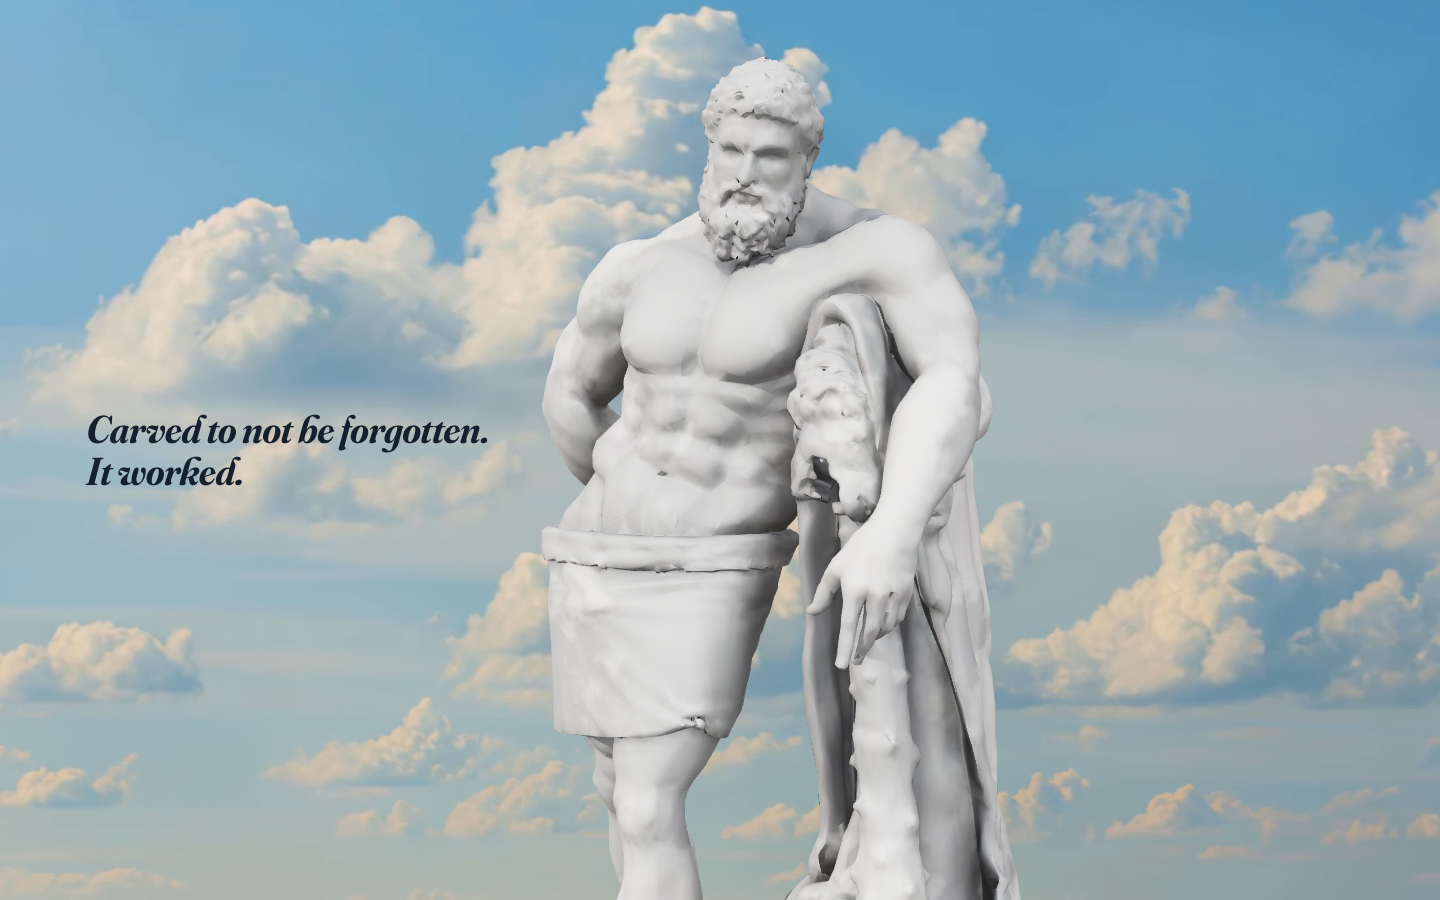
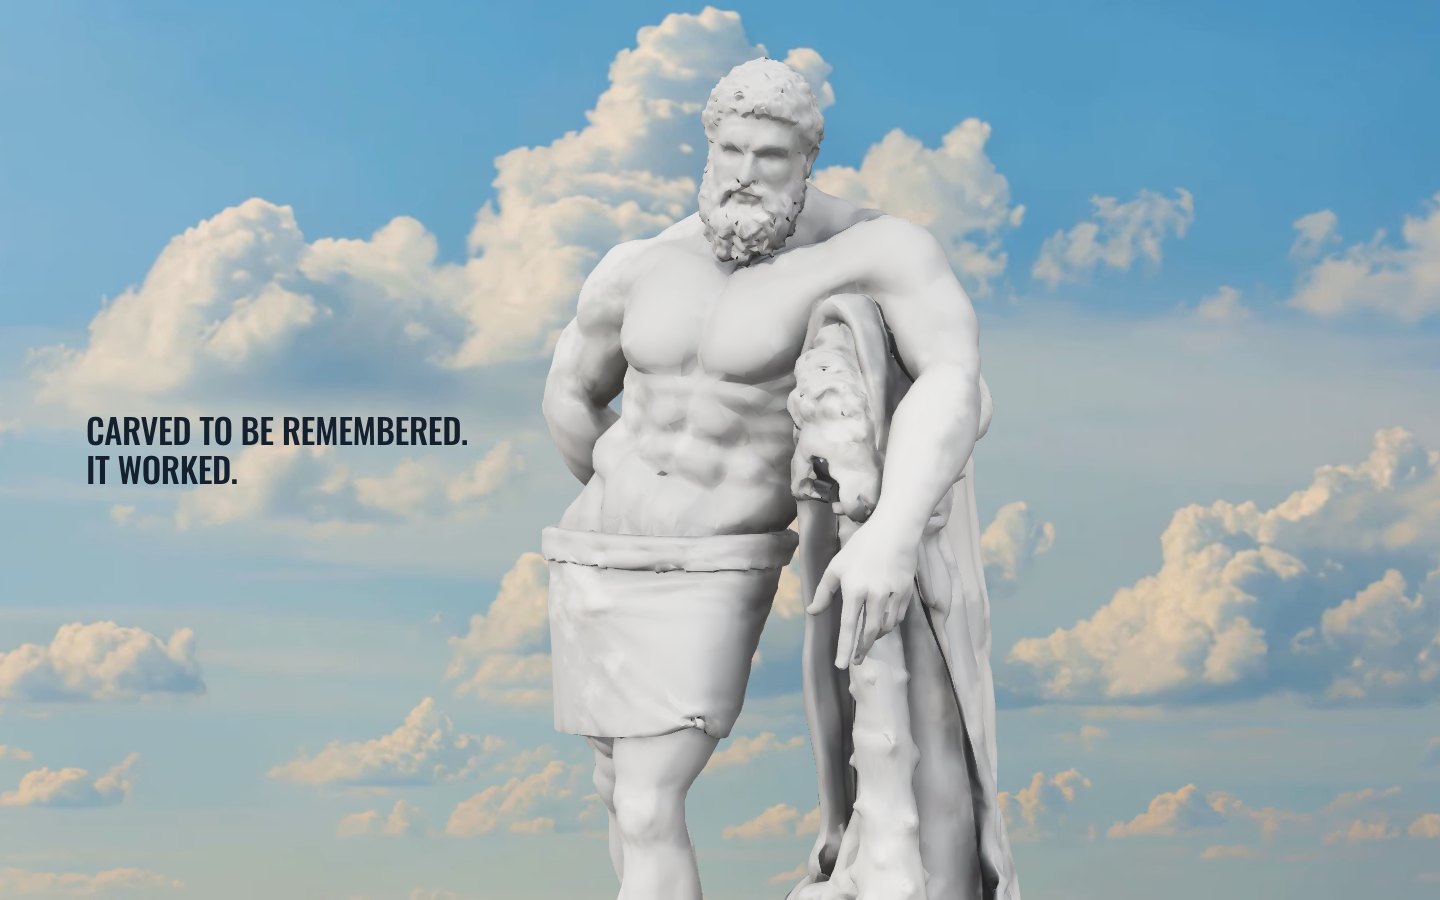
Hero copy: Oswald caps, sentence per line, edited for slop; Carved to be remembered
Claude-Session: https://claude.ai/code/session_01NAdPXLUXCGhh82qBsMYyAh

diff --git a/src/hero/lines.ts b/src/hero/lines.ts
@@ -1,18 +1,13 @@
-/** Every line of copy on the hero. Sentence case, plain, declarative. Line breaks are deliberate. */
+/** Every line of copy on the hero. Line breaks fall between sentences, never inside one. */
 export const COPY = {
   preloader: "Cutting the marble.",
   wordmark: ["Build", "Different"],
   headline1: "We build things that age well.",
-  block1: "Carved to be remembered.
-It worked.",
-  block2: "People have always wanted the same thing.
-To build something that outlives them, and carries their name.",
-  block3: "Yet your brand lives somewhere that forgets everything by next year.
-Online, most names are written in sand.",
-  block4: "It does not have to be.
-Your brand can feel considered, permanent, something meant to stand for a long time.",
-  block5: "Whatever you can imagine, we can build.
-Something worthy of your name, faster and cheaper than has ever been possible.",
+  block1: "Carved to be remembered.\nIt worked.",
+  block2: "People have always wanted the same thing:\nto build something that outlives them and carries their name.",
+  block3: "Yet your brand lives somewhere that forgets everything by next year.\nOnline, most names are written in sand.",
+  block4: "It does not have to be.\nYour brand can feel considered, permanent, built to stand.",
+  block5: "Whatever you can imagine, we can build.\nSomething worthy of your name, faster and for less than has ever been possible.",
   cta: "Start a project",
   scrollHint: "Scroll",
 } as const;
